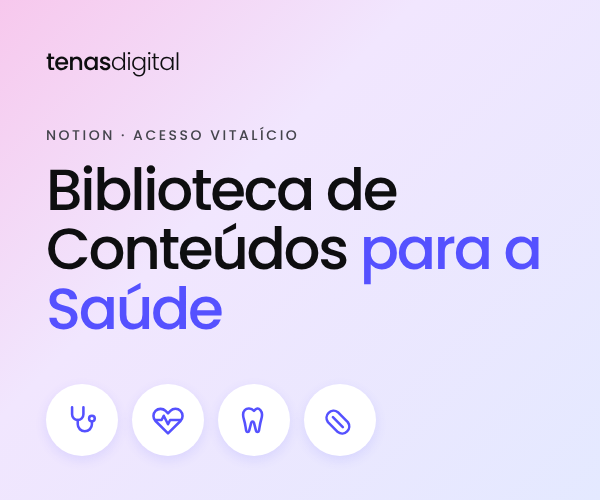
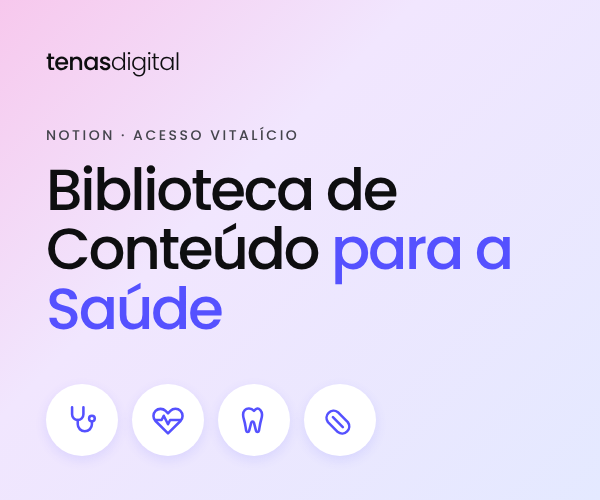
Corrige o nome do produto para Biblioteca de Conteúdo para a Saúde
Claude-Session: https://claude.ai/code/session_01GgecxJvCV5d4gVjMCtAZoC

Changed region(s): [[0.51, 0.45, 0.9, 0.57]]

diff --git a/biblioteca/index.html b/biblioteca/index.html
@@ -3,9 +3,9 @@
 <head>
 <meta charset="utf-8">
 <meta name="viewport" content="width=device-width, initial-scale=1">
-<title>Biblioteca de Conteúdos para a Saúde — Tenas Digital</title>
+<title>Biblioteca de Conteúdo para a Saúde — Tenas Digital</title>
 <meta name="description" content="Notion com 30 roteiros de carrossel prontos, com legenda e hashtags, para profissionais da saúde. Acesso vitalício.">
-<meta property="og:title" content="Biblioteca de Conteúdos para a Saúde — Tenas Digital">
+<meta property="og:title" content="Biblioteca de Conteúdo para a Saúde — Tenas Digital">
 <meta property="og:description" content="Notion com 30 roteiros de carrossel prontos, com legenda e hashtags, para profissionais da saúde. Acesso vitalício.">
 <meta property="og:image" content="https://tenasdigital.com/biblioteca/img/og.png">
 <meta property="og:type" content="website">
@@ -44,7 +44,7 @@ summary::-webkit-details-marker{display:none}
 <div style="flex: 1 1 480px; min-width: 0; display: flex; flex-direction: column; gap: 22px">
 <span style="font-size: 12px; font-weight: 500; letter-spacing: 0.18em; text-transform: uppercase; color: #0E0E10">Biblioteca de conteúdos para a saúde · no Notion</span>
 <h1 style="margin: 0; color: #0E0E10; font-weight: 500; font-size: clamp(38px, 5.2vw, 60px); line-height: 1.05; letter-spacing: -0.035em">Doutora, você deixa de postar porque <span style="color: #5551FF">não sabe o que falar?</span></h1>
-<p style="margin: 0; font-size: 18px; color: #45454D; max-width: 34em">A Biblioteca de Conteúdos para a Saúde é um <strong style="color: #0E0E10; font-weight: 500">Notion com 30 roteiros de carrossel prontos</strong>, com legenda e hashtags, para você adaptar à sua especialidade e postar. Pagou uma vez, é seu para sempre.</p>
+<p style="margin: 0; font-size: 18px; color: #45454D; max-width: 34em">A Biblioteca de Conteúdo para a Saúde é um <strong style="color: #0E0E10; font-weight: 500">Notion com 30 roteiros de carrossel prontos</strong>, com legenda e hashtags, para você adaptar à sua especialidade e postar. Pagou uma vez, é seu para sempre.</p>
 <div style="display: flex; flex-wrap: wrap; gap: 14px; align-items: center">
 <a href="#oferta" style="display: inline-flex; align-items: center; justify-content: center; gap: 10px; min-height: 54px; padding: 0 32px; background: #5551FF; color: #FFFFFF; border-radius: 60px; text-decoration: none; font-weight: 500; font-size: 15px">Quero minha biblioteca <svg width="18" height="18" viewBox="0 0 24 24" fill="none" stroke="currentColor" stroke-width="2" stroke-linecap="round" stroke-linejoin="round" aria-hidden="true"><path d="M5 12h14M13 6l6 6-6 6"/></svg></a>
 <span style="font-size: 13px; color: #666666">Acesso imediato · garantia de 7 dias</span>
@@ -198,7 +198,7 @@ summary::-webkit-details-marker{display:none}
 <p style="margin: 0; font-size: 18px">Menos de R$1,25 por conteúdo, para nunca mais encarar a tela em branco.</p>
 </div>
 <div style="flex: 1 1 420px; min-width: 0; max-width: 500px; background: #FFFFFF; border-radius: 24px; padding: 34px; display: flex; flex-direction: column; gap: 20px">
-<span style="font-weight: 600; color: #0E0E10; font-size: 18px">Biblioteca de Conteúdos para a Saúde</span>
+<span style="font-weight: 600; color: #0E0E10; font-size: 18px">Biblioteca de Conteúdo para a Saúde</span>
 <div style="display: flex; flex-direction: column; gap: 10px; color: #2D2D2D">
 <span style="display: flex; gap: 10px; align-items: center"><svg width="18" height="18" viewBox="0 0 24 24" fill="none" stroke="#5551FF" stroke-width="2.5" stroke-linecap="round" stroke-linejoin="round" aria-hidden="true"><path d="M20 6L9 17l-5-5"/></svg>Notion com 30 roteiros de carrossel</span>
 <span style="display: flex; gap: 10px; align-items: center"><svg width="18" height="18" viewBox="0 0 24 24" fill="none" stroke="#5551FF" stroke-width="2.5" stroke-linecap="round" stroke-linejoin="round" aria-hidden="true"><path d="M20 6L9 17l-5-5"/></svg>240 cards já escritos</span>

diff --git a/biblioteca/termos/index.html b/biblioteca/termos/index.html
@@ -3,9 +3,9 @@
 <head>
 <meta charset="utf-8">
 <meta name="viewport" content="width=device-width, initial-scale=1">
-<title>Termos de Uso — Biblioteca de Conteúdos para a Saúde</title>
+<title>Termos de Uso — Biblioteca de Conteúdo para a Saúde</title>
 <meta name="description" content="Notion com 30 roteiros de carrossel prontos, com legenda e hashtags, para profissionais da saúde. Acesso vitalício.">
-<meta property="og:title" content="Termos de Uso — Biblioteca de Conteúdos para a Saúde">
+<meta property="og:title" content="Termos de Uso — Biblioteca de Conteúdo para a Saúde">
 <meta property="og:description" content="Notion com 30 roteiros de carrossel prontos, com legenda e hashtags, para profissionais da saúde. Acesso vitalício.">
 <meta property="og:image" content="https://tenasdigital.com/biblioteca/img/og.png">
 <meta property="og:type" content="website">
@@ -32,14 +32,14 @@ a{color:#3F3BE0}a:hover{color:#0E0E10}
 <div style="display: flex; justify-content: center; padding: 56px 20px 80px">
 <div style="width: 100%; max-width: 820px; display: flex; flex-direction: column; gap: 32px">
 <div style="display: flex; flex-direction: column; gap: 12px">
-<span style="font-size: 12px; font-weight: 500; letter-spacing: 0.18em; text-transform: uppercase; color: #666666">Biblioteca de Conteúdos para a Saúde</span>
+<span style="font-size: 12px; font-weight: 500; letter-spacing: 0.18em; text-transform: uppercase; color: #666666">Biblioteca de Conteúdo para a Saúde</span>
 <h1 style="margin: 0; color: #0E0E10; font-weight: 500; font-size: clamp(32px, 4.2vw, 44px); line-height: 1.1; letter-spacing: -0.03em">Termos de Uso</h1>
 <span style="font-size: 14px; color: #666666">Última atualização: 12 de novembro de 2026</span>
-<p style="margin: 0; color: #45454D; font-size: 16px; line-height: 1.75">Estes termos explicam as regras de compra e de uso da Biblioteca de Conteúdos para a Saúde, vendida pela Tenas Digital. Ao comprar o produto, você concorda com eles.</p>
+<p style="margin: 0; color: #45454D; font-size: 16px; line-height: 1.75">Estes termos explicam as regras de compra e de uso da Biblioteca de Conteúdo para a Saúde, vendida pela Tenas Digital. Ao comprar o produto, você concorda com eles.</p>
 </div>
 <div style="display: flex; flex-direction: column; gap: 10px">
 <h2 style="margin: 0; color: #0E0E10; font-weight: 600; font-size: 20px; letter-spacing: -0.01em">1. O produto</h2>
-<p style="margin: 0; color: #45454D; font-size: 16px; line-height: 1.75">A Biblioteca de Conteúdos para a Saúde é um produto digital entregue em uma página do Notion. Ela reúne 30 roteiros de carrossel para Instagram, com texto de cada card, legenda e hashtags sugeridas, organizados em um calendário de 6 semanas.</p>
+<p style="margin: 0; color: #45454D; font-size: 16px; line-height: 1.75">A Biblioteca de Conteúdo para a Saúde é um produto digital entregue em uma página do Notion. Ela reúne 30 roteiros de carrossel para Instagram, com texto de cada card, legenda e hashtags sugeridas, organizados em um calendário de 6 semanas.</p>
 <p style="margin: 0; color: #45454D; font-size: 16px; line-height: 1.75">O produto não inclui artes prontas, gestão de redes sociais, consultoria individual nem atualizações obrigatórias de conteúdo.</p>
 </div>
 <div style="display: flex; flex-direction: column; gap: 10px">

diff --git a/biblioteca/privacidade/index.html b/biblioteca/privacidade/index.html
@@ -3,9 +3,9 @@
 <head>
 <meta charset="utf-8">
 <meta name="viewport" content="width=device-width, initial-scale=1">
-<title>Política de Privacidade — Biblioteca de Conteúdos para a Saúde</title>
+<title>Política de Privacidade — Biblioteca de Conteúdo para a Saúde</title>
 <meta name="description" content="Notion com 30 roteiros de carrossel prontos, com legenda e hashtags, para profissionais da saúde. Acesso vitalício.">
-<meta property="og:title" content="Política de Privacidade — Biblioteca de Conteúdos para a Saúde">
+<meta property="og:title" content="Política de Privacidade — Biblioteca de Conteúdo para a Saúde">
 <meta property="og:description" content="Notion com 30 roteiros de carrossel prontos, com legenda e hashtags, para profissionais da saúde. Acesso vitalício.">
 <meta property="og:image" content="https://tenasdigital.com/biblioteca/img/og.png">
 <meta property="og:type" content="website">
@@ -32,10 +32,10 @@ a{color:#3F3BE0}a:hover{color:#0E0E10}
 <div style="display: flex; justify-content: center; padding: 56px 20px 80px">
 <div style="width: 100%; max-width: 820px; display: flex; flex-direction: column; gap: 32px">
 <div style="display: flex; flex-direction: column; gap: 12px">
-<span style="font-size: 12px; font-weight: 500; letter-spacing: 0.18em; text-transform: uppercase; color: #666666">Biblioteca de Conteúdos para a Saúde</span>
+<span style="font-size: 12px; font-weight: 500; letter-spacing: 0.18em; text-transform: uppercase; color: #666666">Biblioteca de Conteúdo para a Saúde</span>
 <h1 style="margin: 0; color: #0E0E10; font-weight: 500; font-size: clamp(32px, 4.2vw, 44px); line-height: 1.1; letter-spacing: -0.03em">Política de Privacidade</h1>
 <span style="font-size: 14px; color: #666666">Última atualização: 12 de novembro de 2026</span>
-<p style="margin: 0; color: #45454D; font-size: 16px; line-height: 1.75">Esta política explica quais dados pessoais a Tenas Digital coleta quando você visita esta página ou compra a Biblioteca de Conteúdos para a Saúde, e como eles são usados e protegidos.</p>
+<p style="margin: 0; color: #45454D; font-size: 16px; line-height: 1.75">Esta política explica quais dados pessoais a Tenas Digital coleta quando você visita esta página ou compra a Biblioteca de Conteúdo para a Saúde, e como eles são usados e protegidos.</p>
 </div>
 <div style="display: flex; flex-direction: column; gap: 10px">
 <h2 style="margin: 0; color: #0E0E10; font-weight: 600; font-size: 20px; letter-spacing: -0.01em">1. Quem é responsável pelos seus dados</h2>

diff --git a/README.md b/README.md
@@ -8,4 +8,4 @@ Site estático (HTML, CSS e JS), publicado no Vercel.
 - `artigos.html` — lista de artigos
 - `contato.html` — lista de espera (formulário envia para o e-mail via FormSubmit)
 - `assets/main.js` — número do WhatsApp e e-mail do formulário ficam no topo do arquivo
-- `biblioteca/` — página de vendas da Biblioteca de Conteúdos para a Saúde (checkout na Kiwify), com `termos/` e `privacidade/`
+- `biblioteca/` — página de vendas da Biblioteca de Conteúdo para a Saúde (checkout na Kiwify), com `termos/` e `privacidade/`
